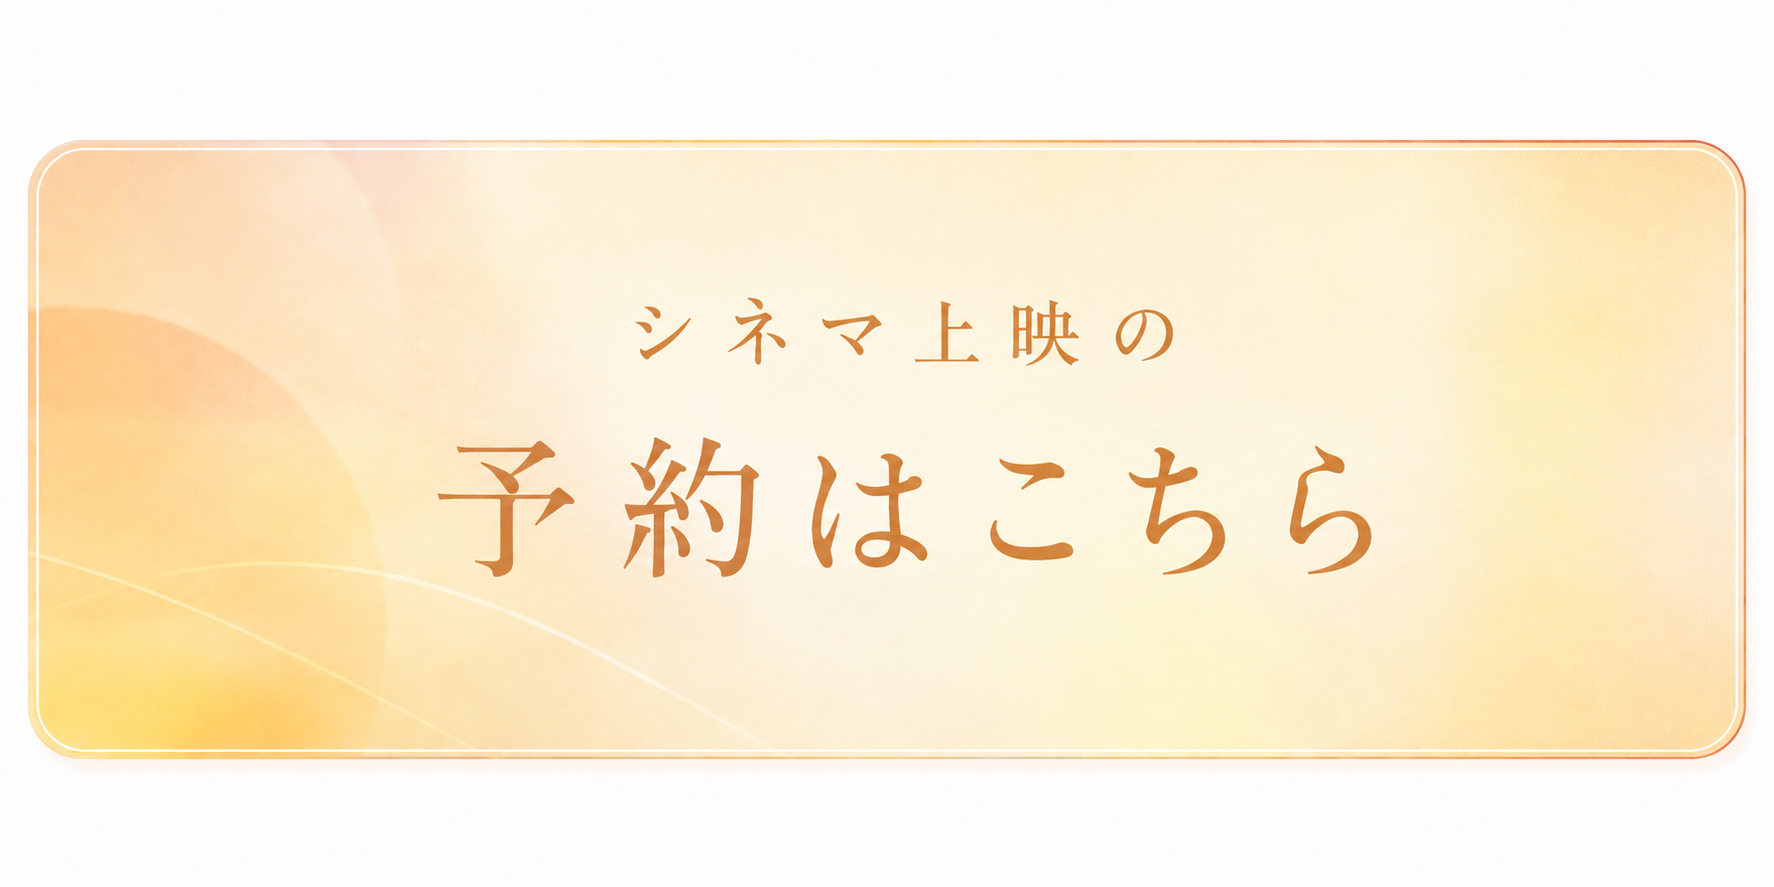
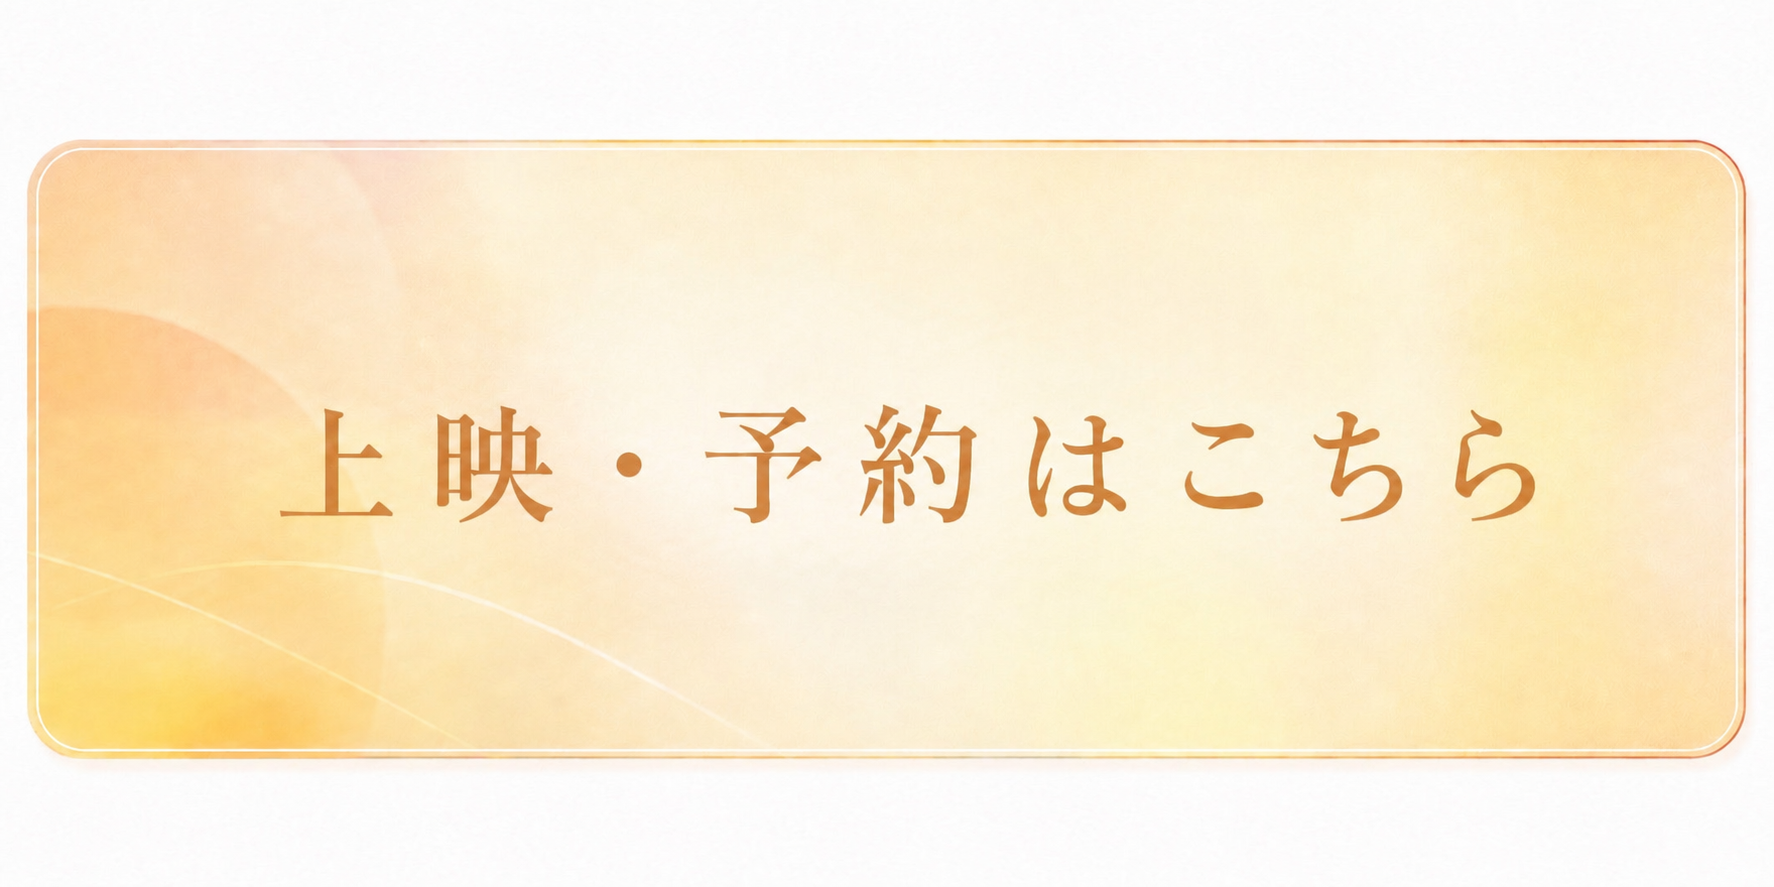
Update booking button

diff --git a/index.html b/index.html
@@ -107,7 +107,7 @@
           <div class="Story">
             <h2 class="fade-up">ストーリー</h2>
             <p class="fade-up">
-              売れないシンガーソングライターの春興将人が謎の死を遂げた。<br>彼の地元・広島県尾道市で葬儀が執り行われる。<br>葬儀の為に集まった高校時代の親友の青山恋、一ノ瀬四葉と八村楓。<br />
+              売れないシンガーソングライターの春興将人（今井柊斗）が謎の死を遂げた。<br>彼の地元・広島県尾道市で葬儀が執り行われる。<br>葬儀の為に集まった高校時代の親友の青山恋（小西有也）、一ノ瀬四葉（橋口果林）と八村楓（園凜）。<br />
               一生続くと思っていたその絆は儚く消え去り、10年。<br>夢を追った彼はなぜ亡くなったのか。<br />
               そして、真実を知った3人は、自らの過去とどう向き合うのか。<br>過去と現実が交錯する人間ドラマ。
             </p>

diff --git a/style.css b/style.css
@@ -262,7 +262,7 @@ h1{
 }
 
 .Story p{
-  font-size: 11px;
+  font-size: 12px;
   line-height: 27.2px;
 }
 
